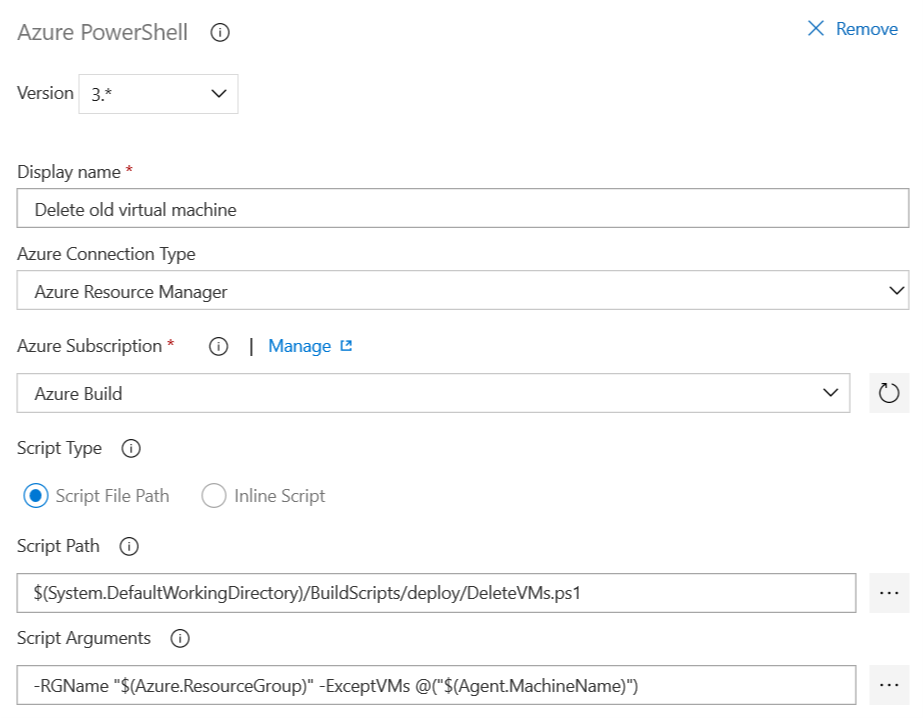
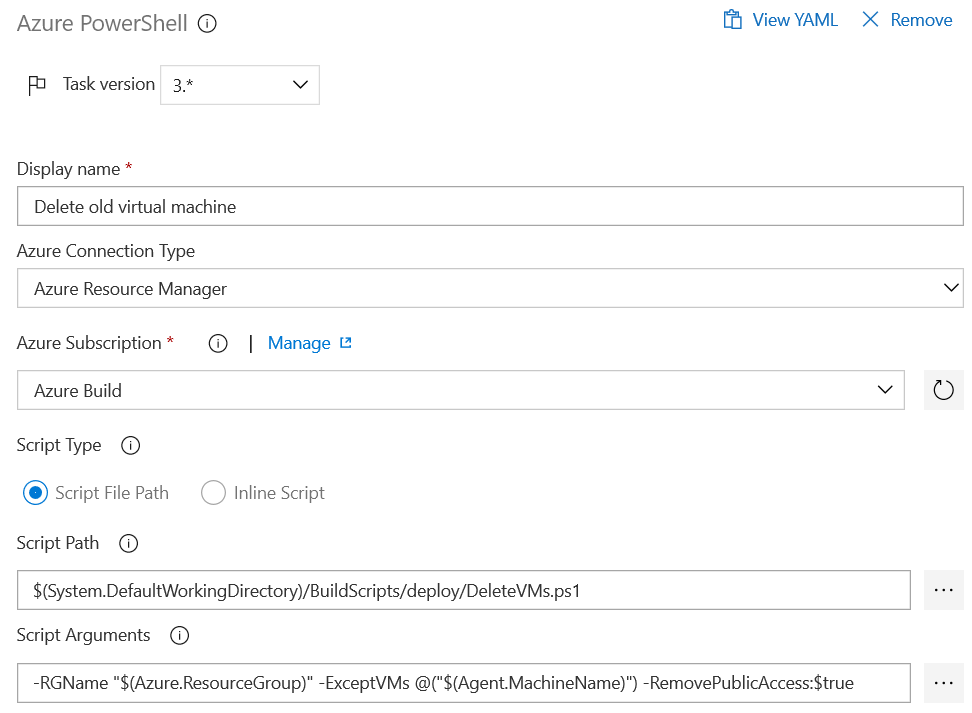
Remove obsolete steps from documentation (setup password and agent download URL)

diff --git a/docs/Setup_Azure_DevOps_project.md b/docs/Setup_Azure_DevOps_project.md
@@ -96,51 +96,42 @@ This task publishes scripts from this repository, so they are available for othe
 ![Variable group - Azure resources](images/Setup_Azure_DevOps_project_Variable_group_Azure_resources.png)
 
 8. Click **Save**.
-9. In menu open **Project settings** and then **Agent pools**.
-10. Select _Default_ pool.
-11. Click **Download agent**.
-12. Select **Windows** and then **x64**.
-13. Click **Copy URL to clipboard** button next to **Download**. Save the URL for later user.
-
-![Download agent](images/Setup_Azure_DevOps_project_Download_agent.png)
-
-14. Click user icon in upper right corner and select **Security**.
-15. Select **Personal access tokens**.
-16. Click **New Token**.
-17. Set **Name** to "BuildAgent".
-18. Set **Expiration** to 90 days.
-19. Click **Show all scopes**.
-20. Check **Agent Pools - Read & manage**.
+9. Click user icon in upper right corner and select **Security**.
+10. Select **Personal access tokens**.
+11. Click **New Token**.
+12. Set **Name** to "BuildAgent".
+13. Set **Expiration** to 90 days.
+14. Click **Show all scopes**.
+15. Check **Agent Pools - Read & manage**.
 
 ![Create Personal Access Token](images/Setup_Azure_DevOps_project_Personal_Access_Token.png)
 
-21. Click **Create**.
-22. Save created token for later use.
-23. From menu select **Pipelines** then **Library**.
-24. Open **Variable groups**.
-25. Create new variable group named **Azure DevOps Account** with following values:
+16. Click **Create**.
+17. Save created token for later use.
+18. From menu select **Pipelines** then **Library**.
+19. Open **Variable groups**.
+20. Create new variable group named **Azure DevOps Account** with following values:
 
 | Name                | Value                                      | Hidden |
 |---------------------|--------------------------------------------|--------|
-| ADOAccount.AgentUrl | Download agent URL obtained in step 13.    |        |
-| ADOAccount.PAT      | Personal Access Token obtained in step 22. | true   |
+| ADOAccount.PAT      | Personal Access Token obtained in step 17. | true   |
 
-26. You can uncheck **Allow access to all pipelines** as this is not needed in our scenario.
+21. You can uncheck **Allow access to all pipelines** as this is not needed in our scenario.
 
 ![Variable group - Azure DevOps account](images/Setup_Azure_DevOps_project_Variable_group_Azure_DevOps_account.png)
 
-27. Click **Save**.
-25. Create new variable group named **Build Agent properties** with following values:
+22. Click **Save**.
+23. Create new variable group named **Build Agent properties** with following values:
 
 | Name                | Value                                          | Hidden |
 |---------------------|------------------------------------------------|--------|
 | BuildAgent.Password | Password of admin user created on build agent. | true   |
 | BuildAgent.Username | Username of admin user created on build agent. |        |
 
-26. You can uncheck **Allow access to all pipelines** as this is not needed in our scenario.
+24. You can uncheck **Allow access to all pipelines** as this is not needed in our scenario.
 
 ![Variable group - Build Agent properties](images/Setup_Azure_DevOps_project_Variable_group_Build_agent.png)
 
-27. Click **Save**.
+25. Click **Save**.
 
 Next step: [Create build agent image](Create_build_agent_image.md)

diff --git a/docs/Create_build_agent_image.md b/docs/Create_build_agent_image.md
@@ -15,7 +15,7 @@ At the GitHub repo there are several images. This article focuses on **Hosted 20
 
 To make installation more secure remove the hardcoded password. Find line
 ```json
-    "install_password": "P@ssw0rd1"
+    "install_password": null
 ```
 and replace it with line
 ```json
@@ -53,10 +53,6 @@ When you commit all the changes and push the branch to GitHub, you are ready to 
 ![Get sources](images/Create_build_agent_image_Get_sources.png)
 
 10. Select **Variables** section.
-    1. Add variable named **PackerVMInstallPassword**. This will be password of user that will install software on the agent. This password is used in legacy commands and therefore maximum length is 16 characters.
-
-![Variables](images/Create_build_agent_image_Variables.png)
-
 11. Open **Variable groups** section.
     1. Click **Link variable group**.
     2. Select **Azure subscription** group and click **Link**.
@@ -101,7 +97,7 @@ When you commit all the changes and push the branch to GitHub, you are ready to 
     - **Display name**: PowerShell Script
     - **File Path**
     - **Script Folder**: `scripts/BuildImage.ps1`
-    - **Arguments**: `-SPClientId "$(Azure.ClientId)" -SPClientSecret "$(Azure.ClientSecret)" -SubscriptionId "$(Azure.SubscriptionId)" -TenantId "$(Azure.TenantId)" -Location "$(Azure.Location)" -RGName "$(Azure.ResourceGroup)" -StorageAccountName "$(Azure.StorageAccountName)" -InstallPassword "$(PackerVMInstallPassword)"`
+    - **Arguments**: `-SPClientId "$(Azure.ClientId)" -SPClientSecret "$(Azure.ClientSecret)" -SubscriptionId "$(Azure.SubscriptionId)" -TenantId "$(Azure.TenantId)" -Location "$(Azure.Location)" -RGName "$(Azure.ResourceGroup)" -StorageAccountName "$(Azure.StorageAccountName)"`
     - **ErrorActionPreference**: Stop
 
 ![PowerShell Script](images/Create_build_agent_image_PowerShell_Script.png)

diff --git a/docs/Deploy_build_agent.md b/docs/Deploy_build_agent.md
@@ -120,7 +120,7 @@ Now the build agent VM image is built and stored in Azure Storage. The last step
     - **Azure Subscription**: Azure Build
     - **Script Type**: Script File Path
     - **Script Path**: `$(System.DefaultWorkingDirectory)/BuildScripts/deploy/InstallAgent.ps1`
-    - **Script Arguments**: `-RGName "$(Azure.ResourceGroup)" -VMName "$(Azure.VirtualMachinePrefix)$(Release.ReleaseId)R" -Username "$(BuildAgent.Username)" -Password "$(BuildAgent.Password)" -VstsUrl "$(System.TeamFoundationCollectionUri)" -PAT "$(ADOAccount.PAT)" -VSTSAgentUrl "$(ADOAccount.AgentUrl)"`
+    - **Script Arguments**: `-RGName "$(Azure.ResourceGroup)" -VMName "$(Azure.VirtualMachinePrefix)$(Release.ReleaseId)R" -Username "$(BuildAgent.Username)" -Password "$(BuildAgent.Password)" -VstsUrl "$(System.TeamFoundationCollectionUri)" -PAT "$(ADOAccount.PAT)"`
     - **ErrorActionPreference**: Stop
     - **Azure PowerShell Version**: Latest installed version
 
@@ -156,7 +156,7 @@ Now the build agent VM image is built and stored in Azure Storage. The last step
     - **Azure Subscription**: Azure Build
     - **Script Type**: Script File Path
     - **Script Path**: `$(System.DefaultWorkingDirectory)/BuildScripts/deploy/DeleteVMs.ps1`
-    - **Script Arguments**: `-RGName "$(Azure.ResourceGroup)" -ExceptVMs @("$(Agent.MachineName)")`
+    - **Script Arguments**: `-RGName "$(Azure.ResourceGroup)" -ExceptVMs @("$(Agent.MachineName)") -RemovePublicAccess:$true`
     - **ErrorActionPreference**: Stop
     - **Azure PowerShell Version**: Latest installed version
 
